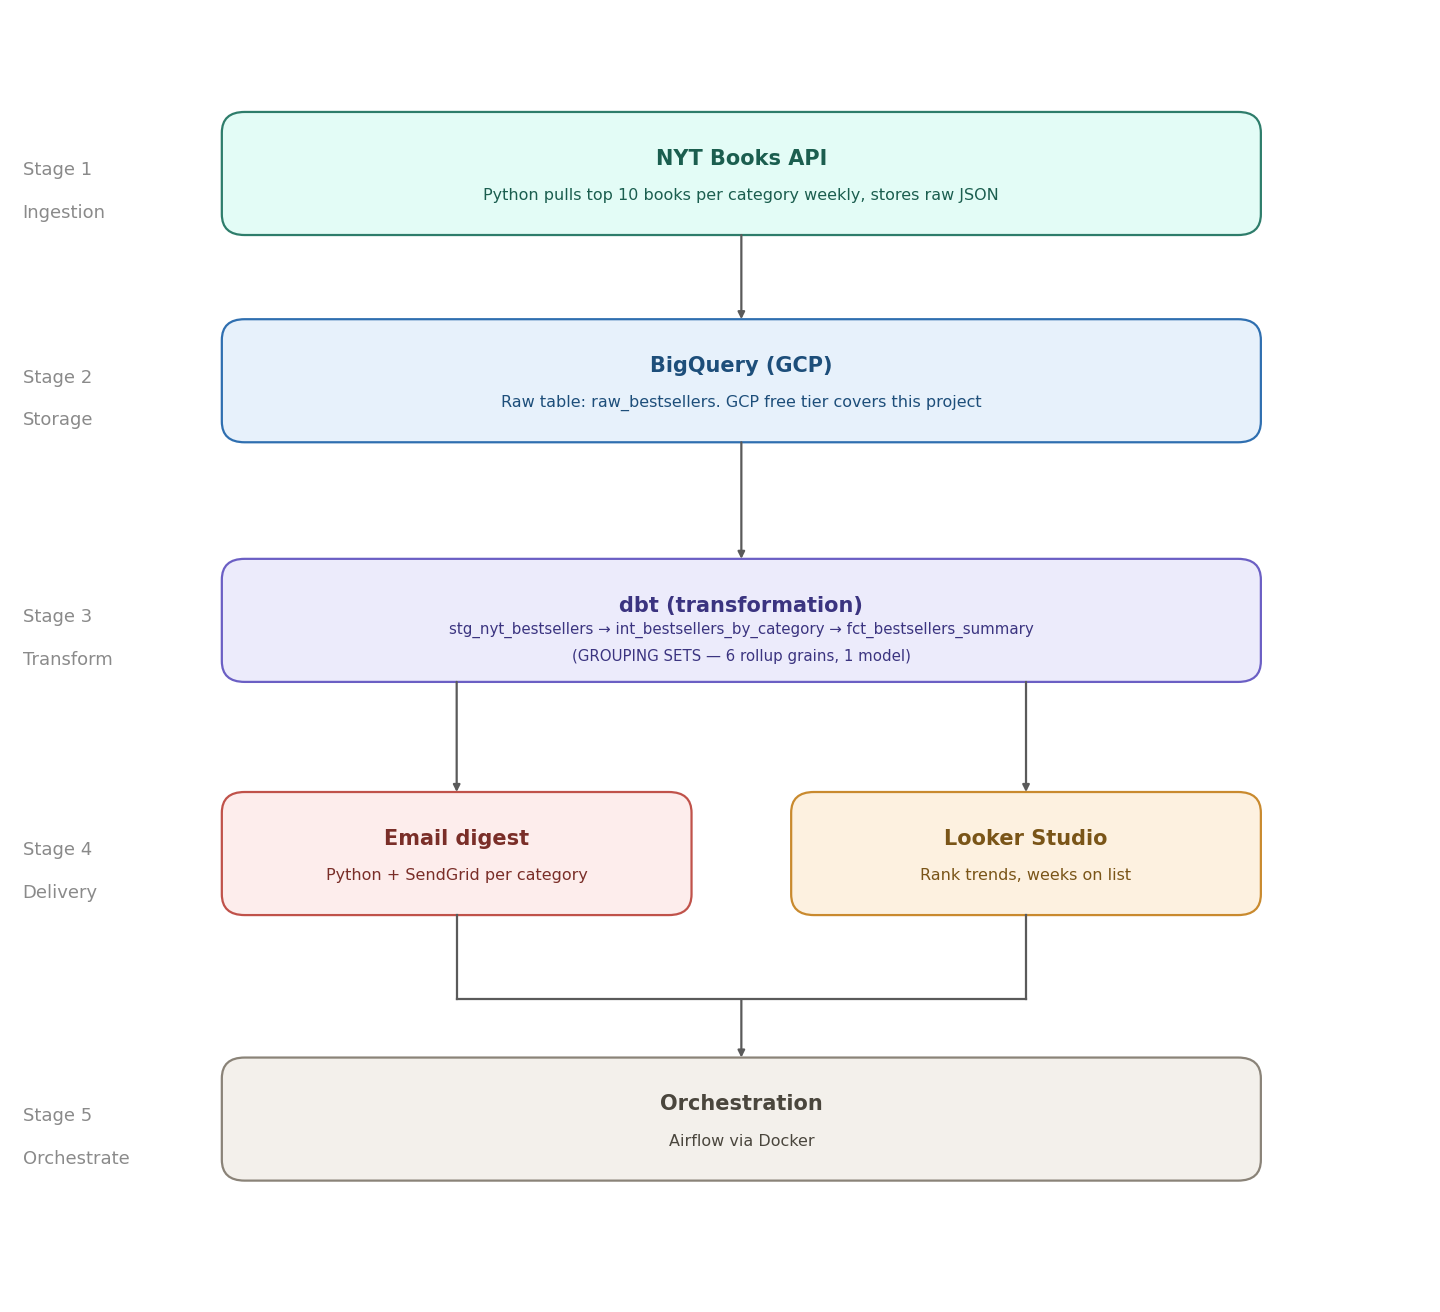
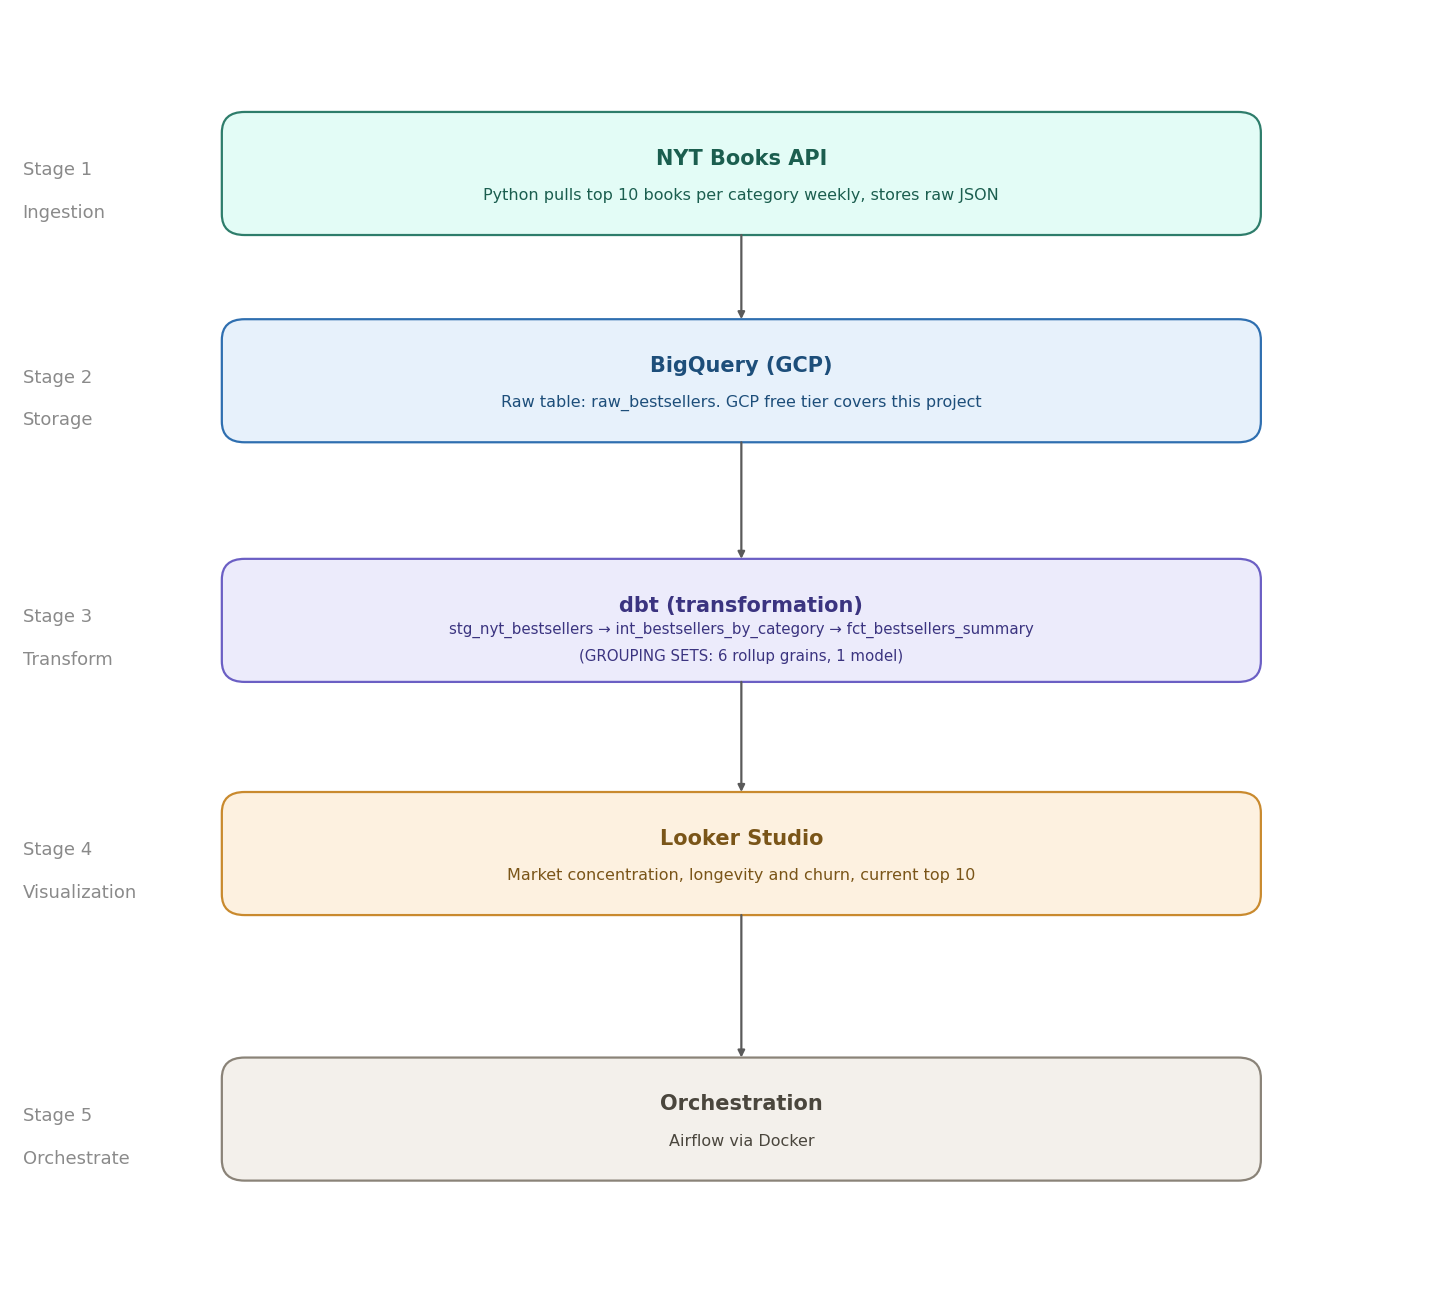
Make ingestion idempotent, fail loudly on partial data, drop email scope
- ingest_nyt.py: replace streaming insert with an atomic load job. Rows are immediately available to DML, removing the ~90 minute streaming buffer delay that blocked cleanup during the original duplicate-ingestion incident- ingest_nyt.py: raise on BigQuery load errors and on any failed or empty category fetch. Previously errors were printed and the script exited 0, so a failed load or a total API outage still marked the Airflow task successful and left the dashboard serving stale data- stg_nyt_bestsellers: deduplicate to one row per (pulled_date, list_name, rank), keeping the most recent pull, and add a snapshot_row_key surrogate key over that grain- staging schema.yml: unique + not_null tests on snapshot_row_key, so a regression in the dedup logic fails the build instead of quietly doubling counts in the mart- sources.yml: correct a stale note claiming the intermediate model's recency_rank handled deduplication- Drop the email delivery stage. The NYT Books API is licensed for non-commercial, non-competing use, which a public bestseller newsletter would conflict with- README and flowchart updated to match, with the project reframed around the dashboard- Remove em-dashes from prose across docs and comments

diff --git a/ingest_nyt.py b/ingest_nyt.py
@@ -24,13 +24,26 @@ CATEGORIES = [
 
 # --- Fetch ---
 def fetch_bestsellers():
+    """
+    Pull the current top 10 for every category.
+
+    Fails the whole run if ANY category could not be fetched. That is
+    deliberate: a partial week is worse than no week. If only 4 of 5
+    categories land, the mart still computes grand totals and share-of-voice
+    percentages, but over incomplete data, which means silently wrong numbers
+    in the dashboard. A failed task is visible and Airflow retries it; bad
+    data is neither.
+    """
     nyt = NYTAPI(NYT_API_KEY, parse_dates=True)
     pulled_at = datetime.now(timezone.utc).isoformat()
     rows = []
+    failed = []
 
     for category in CATEGORIES:
         try:
             books = nyt.best_sellers_list(name=category)[:10]
+            if not books:
+                raise ValueError("API returned no books for this category")
             for rank, book in enumerate(books, start=1):
                 rows.append({
                     "pulled_at":     pulled_at,
@@ -47,20 +60,52 @@ def fetch_bestsellers():
             print(f"  Fetched {category}: {len(books)} books")
         except Exception as e:
             print(f"  ERROR fetching {category}: {e}")
-            continue
+            failed.append(f"{category} ({e})")
+
+    if failed:
+        raise RuntimeError(
+            f"{len(failed)} of {len(CATEGORIES)} categories failed to fetch: "
+            + "; ".join(failed)
+        )
+
+    if not rows:
+        raise RuntimeError("No rows fetched from the NYT API, nothing to load.")
 
     return rows
 
 # --- Load to BigQuery ---
 def load_to_bigquery(rows):
+    """
+    Append rows to raw_bestsellers using a LOAD JOB rather than a streaming
+    insert.
+
+    Why not insert_rows_json (streaming)?
+      1. Streamed rows sit in a write-optimized streaming buffer where
+         UPDATE/DELETE/MERGE are blocked for up to ~90 minutes. That is why
+         cleaning up the duplicate-ingestion incident meant waiting ~2 hours
+         before the DELETE would even run.
+      2. Load jobs are atomic. The batch either lands completely or not at
+         all, and rows are immediately available to DML, so a bad run can be
+         corrected right away.
+      3. job.result() raises on failure, so a failed load fails the Airflow
+         task instead of printing an error and exiting 0.
+
+    No schema is passed: the destination table already exists, so BigQuery
+    applies its schema. That is intentional, because autodetect on a live table
+    risks silently inferring different types if the API payload shifts.
+    """
     client = bigquery.Client(project=GCP_PROJECT)
     table_ref = f"{GCP_PROJECT}.{BQ_DATASET}.{BQ_TABLE}"
 
-    errors = client.insert_rows_json(table_ref, rows)
-    if errors:
-        print(f"BigQuery insert errors: {errors}")
-    else:
-        print(f"Loaded {len(rows)} rows into {table_ref}")
+    job_config = bigquery.LoadJobConfig(
+        write_disposition=bigquery.WriteDisposition.WRITE_APPEND,
+        source_format=bigquery.SourceFormat.NEWLINE_DELIMITED_JSON,
+    )
+
+    job = client.load_table_from_json(rows, table_ref, job_config=job_config)
+    job.result()  # blocks until done; raises GoogleAPICallError on failure
+
+    print(f"Loaded {len(rows)} rows into {table_ref} (load job {job.job_id})")
 
 # --- Main ---
 if __name__ == "__main__":

diff --git a/airflow/dags/nyt_pipeline_dag.py b/airflow/dags/nyt_pipeline_dag.py
@@ -6,16 +6,24 @@ Weekly Airflow DAG that runs the NYT Bestsellers data pipeline end to end:
   2. Transform via dbt models (staging -> intermediate -> marts) and run
      all schema.yml tests
 
-Trigger: externally triggered, not on Airflow's own cron. A Windows Task
-Scheduler job wakes the laptop ~11:45 PM every Wednesday, starts Docker +
-this stack, and explicitly runs `airflow dags trigger` for this DAG (see
-scripts/run_weekly_pipeline.py in the project root). `schedule=None` below
-is deliberate: this DAG used to run on "0 0 * * 4" (Thursday 00:00 ET),
-but with an external trigger also in play, Airflow's own cron would
-sometimes fire its own separate run in the same window the external
-trigger did — producing two DagRuns and two appends to raw_bestsellers.
-Setting schedule=None makes the external trigger the single source of
-truth for "when does this run."
+Schedule: every Thursday at midnight America/New_York time, just after the
+NYT publishes the updated bestseller lists. Airflow's own scheduler owns
+the timing. The stack is expected to be running continuously (Docker
+Desktop starts on login, and every service in docker-compose.yaml is
+`restart: always`), so there is no external trigger involved.
+
+Note on missed runs: catchup=False does NOT mean "never run late." It means
+the scheduler creates a run for the *most recent* missed interval only,
+rather than every interval back to start_date (which is what catchup=True
+would do). So if the laptop is off at Thursday 00:00 and the stack comes
+up Friday, Airflow fires that week's run on Friday, so the week self-heals
+instead of being lost. Restarting the stack again later does not re-run it,
+because that interval already has a DagRun recorded.
+
+This is the desired behavior here. The NYT Books API only ever returns the
+*current* bestseller list, so a late run still captures useful data; what
+we want to avoid is many stacked historical runs all fetching identical
+current data, which is exactly what catchup=True would produce.
 
 CONTAINER LAYOUT (set up via airflow/docker-compose.yaml)
 ---------------------------------------------------------
@@ -50,10 +58,11 @@ default_args = {
 
 @dag(
     dag_id="nyt_bestsellers_pipeline",
-    description="Weekly NYT Bestseller ingestion + dbt transformation (externally triggered)",
-    # No internal cron — see the module docstring. Triggered only via
-    # `airflow dags trigger` (by scripts/run_weekly_pipeline.py, or manually).
-    schedule=None,
+    description="Weekly NYT Bestseller ingestion + dbt transformation",
+    # Cron interpretation uses the timezone of the `start_date` below.
+    # "0 0 * * 4" + tz="America/New_York" = midnight every Thursday in NY,
+    # automatically respecting EST/EDT shifts.
+    schedule="0 0 * * 4",
     start_date=pendulum.datetime(2026, 6, 11, tz="America/New_York"),
     catchup=False,          # don't backfill missed runs from before start_date
     max_active_runs=1,      # never run two instances of this DAG in parallel

diff --git a/diagrams/pipeline_flowchart.py b/diagrams/pipeline_flowchart.py
@@ -55,21 +55,16 @@ stage_label(28.5, "Stage 2", "Storage")
 # ---- Stage 3: Transform (UPDATED) ----
 s3 = box(LEFT, 42.5, WIDE_W, 9.5,
           "dbt (transformation)",
-          "stg_nyt_bestsellers → int_bestsellers_by_category → fct_bestsellers_summary\n(GROUPING SETS — 6 rollup grains, 1 model)",
+          "stg_nyt_bestsellers → int_bestsellers_by_category → fct_bestsellers_summary\n(GROUPING SETS: 6 rollup grains, 1 model)",
           "#ECEBFB", "#6B5FC4", "#3B3480", fontsize_sub=10.8)
 stage_label(47, "Stage 3", "Transform")
 
-# ---- Stage 4: Delivery (split) ----
-HALF_W = 33
-s4a = box(LEFT, 60.5, HALF_W, 9.5,
-           "Email digest",
-           "Python + SendGrid per category",
-           "#FDEDEC", "#C0524A", "#7A2E28")
-s4b = box(LEFT + WIDE_W - HALF_W, 60.5, HALF_W, 9.5,
-           "Looker Studio",
-           "Rank trends, weeks on list",
-           "#FDF1E0", "#C98A2E", "#7A5518")
-stage_label(65, "Stage 4", "Delivery")
+# ---- Stage 4: Visualization ----
+s4 = box(LEFT, 60.5, WIDE_W, 9.5,
+          "Looker Studio",
+          "Market concentration, longevity and churn, current top 10",
+          "#FDF1E0", "#C98A2E", "#7A5518")
+stage_label(65, "Stage 4", "Visualization")
 
 # ---- Stage 5: Orchestrate (UPDATED) ----
 s5 = box(LEFT, 81, WIDE_W, 9.5,
@@ -85,18 +80,11 @@ varrow(cx, 17.5, 24)
 # Stage2 -> Stage3
 varrow(cx, 33.5, 42.5)
 
-# Stage3 -> Stage4 (split into two)
-x_left_c = LEFT + HALF_W / 2
-x_right_c = LEFT + WIDE_W - HALF_W / 2
-varrow(x_left_c, 52, 60.5)
-varrow(x_right_c, 52, 60.5)
+# Stage3 -> Stage4
+varrow(cx, 52, 60.5)
 
-# Stage4 -> Stage5 (merge)
-merge_y = 76.5
-ax.plot([x_left_c, x_left_c], [70, merge_y], color="#5a5a5a", lw=1.6)
-ax.plot([x_right_c, x_right_c], [70, merge_y], color="#5a5a5a", lw=1.6)
-ax.plot([x_left_c, x_right_c], [merge_y, merge_y], color="#5a5a5a", lw=1.6)
-varrow(cx, merge_y, 81)
+# Stage4 -> Stage5
+varrow(cx, 70, 81)
 
 plt.tight_layout(pad=0.6)
 fig.savefig(OUTPUT_PATH, dpi=100, facecolor="white")
